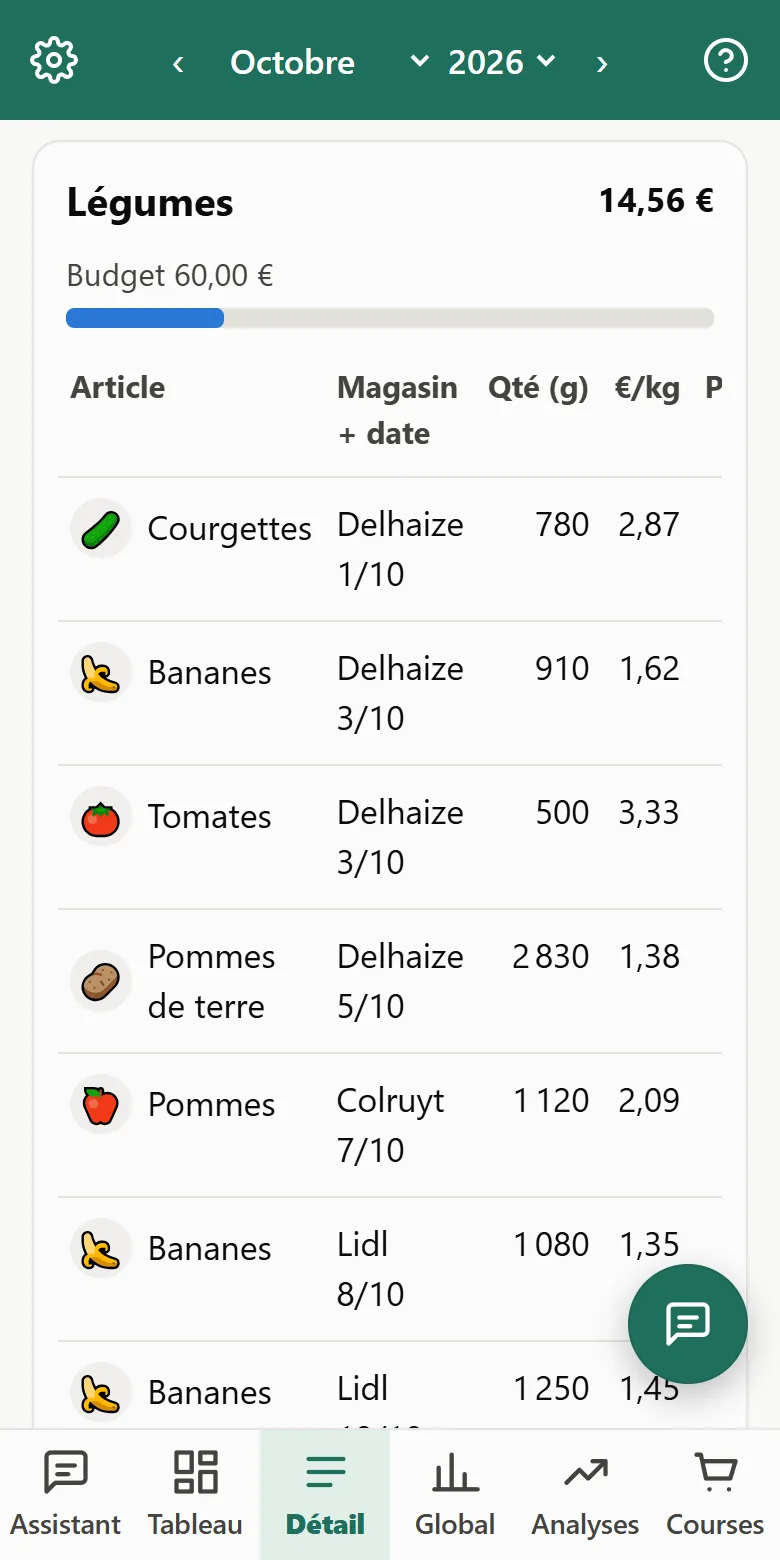
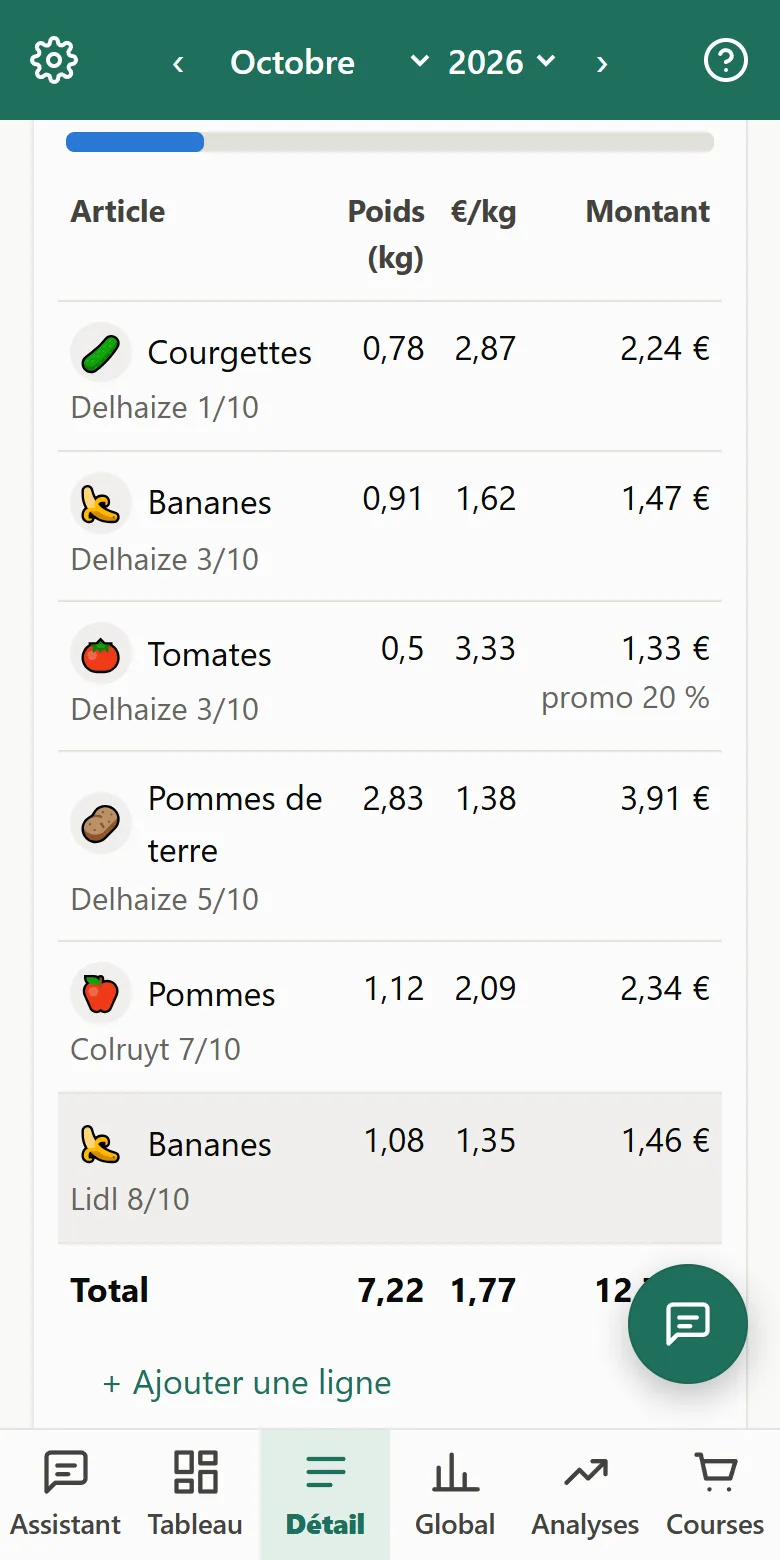
Demandes de Papa : dictée plus longue, poids et prix au kilo des légumes, poids lu sur les paquets
- Dictée : les pauses ne coupent plus la phrase ; arrêt après ~4 s de silence,
  au bout d'une minute, ou sur « Envoyer » (relance automatique du micro sur Android)
- Détail : poids (kg) et €/kg pour les légumes, ligne Total avec les kilos achetés
  et les achats sans poids ; magasin et date sous l'article, promo sous le montant,
  le tableau tient dans la largeur du téléphone
- Lecture des tickets : poids d'un fruit ou légume emballé repris du nom
  (« FRAISES 650G ») et prix au kilo calculé ; un volume n'est pas un poids
- Notice à jour

diff --git a/src/lib/voice.ts b/src/lib/voice.ts
@@ -31,19 +31,51 @@ const ERRORS: Record<string, string> = {
 }
 
 /**
- * Dictée : start() écoute, le texte s'affiche au fur et à mesure (interim),
- * puis onFinal reçoit la phrase complète quand l'utilisateur s'arrête de parler.
+ * Dictée : start() écoute, le texte s'affiche au fur et à mesure (interim), puis onFinal reçoit
+ * tout ce qui a été dit. Les pauses ne coupent pas la dictée : elle s'arrête après quelques secondes
+ * de silence, au bout d'une minute, ou quand l'utilisateur touche « Envoyer ».
  */
+const SILENCE_MS = 4000 // silence après avoir parlé
+const SILENCE_BEFORE_MS = 8000 // silence avant d'avoir commencé à parler
+const MAX_MS = 60000 // durée maximale d'une dictée
+
+/** Assemble les morceaux reconnus (Android répète parfois tout le début dans chaque morceau). */
+function joinFinals(parts: string[]): string {
+  let out = ''
+  for (const raw of parts) {
+    const p = raw.trim()
+    if (!p) continue
+    if (out && p.toLowerCase().startsWith(out.toLowerCase())) out = p
+    else if (!out.toLowerCase().endsWith(p.toLowerCase())) out = out ? `${out} ${p}` : p
+  }
+  return out
+}
+
 export function useDictation(onFinal: (text: string) => void) {
   const [listening, setListening] = useState(false)
   const [interim, setInterim] = useState('')
   const [error, setError] = useState<string | null>(null)
   const rec = useRef<Recognition | null>(null)
-  const finalText = useRef('')
   const cb = useRef(onFinal)
   cb.current = onFinal
+  /** État d'une dictée en cours (peut couvrir plusieurs sessions du micro). */
+  const run = useRef<{ committed: string; current: string; startedAt: number; lastSpeech: number; done: boolean; timer: number } | null>(null)
 
-  const stop = useCallback(() => { rec.current?.stop() }, [])
+  const finish = useCallback(() => {
+    const st = run.current
+    if (!st || st.done) return
+    st.done = true
+    window.clearInterval(st.timer)
+    try { rec.current?.stop() } catch { /* déjà arrêté */ }
+    rec.current = null
+    setListening(false)
+    setInterim('')
+    const text = joinFinals([st.committed, st.current])
+    run.current = null
+    if (text) cb.current(text)
+  }, [])
+
+  const stop = useCallback(() => finish(), [finish])
 
   const start = useCallback(() => {
     const Cls = recognitionClass()
@@ -52,33 +84,52 @@ export function useDictation(onFinal: (text: string) => void) {
     unlockAudio()
     setError(null)
     setInterim('')
-    finalText.current = ''
-    const r = new Cls()
-    r.lang = 'fr-BE'
-    r.continuous = false
-    r.interimResults = true
-    r.onresult = (e) => {
-      let live = ''
-      for (let i = e.resultIndex; i < e.results.length; i++) {
-        const res = e.results[i]
-        if (res.isFinal) finalText.current += res[0].transcript
-        else live += res[0].transcript
-      }
-      setInterim((finalText.current + live).trim())
-    }
-    r.onerror = (e) => { if (e.error !== 'aborted') setError(ERRORS[e.error] ?? 'La dictée a été interrompue. Réessayez.') }
-    r.onend = () => {
-      setListening(false)
-      rec.current = null
-      const text = finalText.current.trim()
-      setInterim('')
-      if (text) cb.current(text)
-    }
-    rec.current = r
-    try { r.start(); setListening(true) } catch { setError('La dictée n\'a pas pu démarrer. Réessayez.') }
-  }, [])
+    const now = Date.now()
+    const st = { committed: '', current: '', startedAt: now, lastSpeech: now, done: false, timer: 0 }
+    run.current = st
+    // Arrêt automatique : silence prolongé ou durée maximale
+    st.timer = window.setInterval(() => {
+      const t = Date.now()
+      const spoken = Boolean(joinFinals([st.committed, st.current]))
+      if (t - st.startedAt > MAX_MS || t - st.lastSpeech > (spoken ? SILENCE_MS : SILENCE_BEFORE_MS)) finish()
+    }, 300)
 
-  useEffect(() => () => rec.current?.abort(), [])
+    const session = () => {
+      const r = new Cls()
+      r.lang = 'fr-BE'
+      r.continuous = true
+      r.interimResults = true
+      r.onresult = (e) => {
+        const finals: string[] = []
+        let live = ''
+        for (let i = 0; i < e.results.length; i++) {
+          const res = e.results[i]
+          if (res.isFinal) finals.push(res[0].transcript)
+          else live += res[0].transcript
+        }
+        st.current = joinFinals(finals)
+        st.lastSpeech = Date.now()
+        setInterim(joinFinals([st.committed, st.current, live]))
+      }
+      r.onerror = (e) => {
+        if (e.error === 'no-speech' || e.error === 'aborted') return // le minuteur de silence décide
+        setError(ERRORS[e.error] ?? 'La dictée a été interrompue. Réessayez.')
+        finish()
+      }
+      // Le téléphone coupe parfois le micro de lui-même : on relance tant que la dictée n'est pas finie
+      r.onend = () => {
+        if (st.done) return
+        st.committed = joinFinals([st.committed, st.current])
+        st.current = ''
+        try { session() } catch { finish() }
+      }
+      rec.current = r
+      r.start()
+    }
+    try { session(); setListening(true) } catch { setError("La dictée n'a pas pu démarrer. Réessayez."); finish() }
+  }, [finish])
+
+  useEffect(() => () => { if (run.current) { run.current.done = true; window.clearInterval(run.current.timer) } rec.current?.abort() }, [])
   return { listening, interim, error, start, stop, clearError: () => setError(null) }
 }
 

diff --git a/src/pages/Detail.tsx b/src/pages/Detail.tsx
@@ -57,6 +57,11 @@ export default function Detail() {
         const rows = byCategory.get(c.id) ?? []
         const sub = rows.reduce((a, p) => a + Number(p.amount), 0)
         const status = budgetStatus(sub, c.monthly_budget)
+        // Légumes : poids en kg et prix au kilo (donné, sinon calculé), total des kilos
+        const kgOf = (p: Purchase) => (p.quantity_g ? Number(p.quantity_g) / 1000 : null)
+        const ppkOf = (p: Purchase) => (p.price_per_kg != null ? Number(p.price_per_kg) : kgOf(p) ? Number(p.amount) / kgOf(p)! : null)
+        const weighedRows = rows.filter((p) => kgOf(p))
+        const totalKg = weighedRows.reduce((a, p) => a + kgOf(p)!, 0)
         return (
           <section key={c.id} className="card">
             <div className="spread">
@@ -75,25 +80,32 @@ export default function Detail() {
                   <thead>
                     <tr>
                       <th>Article</th>
-                      <th>Magasin + date</th>
-                      {c.weighed && <><th className="num">Qté (g)</th><th className="num">€/kg</th></>}
+                      {c.weighed && <><th className="num">Poids<br />(kg)</th><th className="num">€/kg</th></>}
                       {c.counted && <th className="num">Nbre</th>}
-                      <th className="num">Promo</th>
                       <th className="num">Montant</th>
                     </tr>
                   </thead>
                   <tbody>
                     {rows.map((p) => (
                       <tr key={p.id} className="clickable" onClick={() => setEditing(p)}>
-                        <td><span className="pname"><ProductIcon name={itemById(p.item_id)?.name ?? ''} category={c.name} icon={itemById(p.item_id)?.icon} />{itemById(p.item_id)?.name}</span>{!c.counted && p.units && Number(p.units) > 1 ? <span className="muted"> ×{num(p.units)}</span> : null}{p.note && <div className="muted small">{p.note}</div>}</td>
-                        <td>{storeDate(storeById(p.store_id)?.name, p.purchased_on)}</td>
-                        {c.weighed && <><td className="num">{num(p.quantity_g)}</td><td className="num">{num(p.price_per_kg)}</td></>}
+                        <td><span className="pname"><ProductIcon name={itemById(p.item_id)?.name ?? ''} category={c.name} icon={itemById(p.item_id)?.icon} />{itemById(p.item_id)?.name}</span>{!c.counted && p.units && Number(p.units) > 1 ? <span className="muted"> ×{num(p.units)}</span> : null}<div className="muted small">{storeDate(storeById(p.store_id)?.name, p.purchased_on)}{p.note ? ` · ${p.note}` : ''}</div></td>
+                        {c.weighed && <>
+                          <td className="num">{kgOf(p) ? num(Math.round(kgOf(p)! * 1000) / 1000) : <span className="muted">—</span>}</td>
+                          <td className="num">{ppkOf(p) != null ? num(Math.round(ppkOf(p)! * 100) / 100) : <span className="muted">—</span>}</td>
+                        </>}
                         {c.counted && <td className="num">{num(p.units ?? 1)}</td>}
-                        <td className="num">{p.promo_pct ? `${num(p.promo_pct)} %` : ''}</td>
-                        <td className="num">{eur(p.amount)}</td>
+                        <td className="num">{eur(p.amount)}{p.promo_pct ? <div className="muted small">promo {num(p.promo_pct)} %</div> : null}</td>
                       </tr>
                     ))}
                   </tbody>
+                  <tfoot>
+                    <tr>
+                      <td>Total{c.weighed && rows.length > weighedRows.length ? <div className="muted small">{rows.length - weighedRows.length} achat{rows.length - weighedRows.length > 1 ? 's' : ''} sans poids</div> : null}</td>
+                      {c.weighed && <><td className="num">{weighedRows.length ? num(Math.round(totalKg * 1000) / 1000) : '—'}</td><td className="num">{totalKg ? num(Math.round((weighedRows.reduce((a, p) => a + Number(p.amount), 0) / totalKg) * 100) / 100) : ''}</td></>}
+                      {c.counted && <td className="num">{num(rows.reduce((a, p) => a + Number(p.units ?? 1), 0))}</td>}
+                      <td className="num">{eur(sub)}</td>
+                    </tr>
+                  </tfoot>
                 </table>
               </div>
             )}

diff --git a/public/notice.html b/public/notice.html
@@ -249,7 +249,7 @@
       <div class="step duo">
         <div>
           <h3>🎤 Parler à l'assistant</h3>
-          <p>Touchez <span class="ui">🎤 Parler</span> et dites ce que vous voulez, naturellement : <em>« J'ai payé 12,50 € chez le boucher aujourd'hui »</em>, <em>« le plein d'essence, 58 € chez Shell »</em>, <em>« combien ai-je dépensé ce mois-ci ? »</em>. Quand vous vous arrêtez de parler, la phrase part toute seule (ou touchez <span class="ui">⏹ Envoyer</span>).</p>
+          <p>Touchez <span class="ui">🎤 Parler</span> et dites ce que vous voulez, naturellement : <em>« J'ai payé 12,50 € chez le boucher aujourd'hui »</em>, <em>« le plein d'essence, 58 € chez Shell »</em>, <em>« combien ai-je dépensé ce mois-ci ? »</em>. Vous pouvez faire des pauses pour réfléchir : la dictée continue. Elle part toute seule après environ 4 secondes de silence, au bout d'une minute au plus, ou quand vous touchez <span class="ui">⏹ Envoyer</span>.</p>
           <p><strong>Pour une dépense dictée, l'assistant montre toujours un résumé</strong> de ce qu'il a compris (quoi, combien, quand, où, quel mois) et demande <em>« Je l'enregistre ? »</em>. Touchez <span class="ui">✓ Oui, j'enregistre</span> ou <span class="ui">✗ Non</span>, ou répondez « oui » à voix haute. Rien n'est enregistré sans votre accord.</p>
           <p><strong>Il vous répond à voix haute</strong> quand vous lui avez parlé. Sous chaque réponse, <span class="ui">🔊 Écouter</span> la relit.</p>
           <p>Il peut aussi <strong>corriger</strong> (« le croissant coûtait 1,20 € ») ou <strong>supprimer</strong> (« supprime ce que je viens d'encoder ») : il montre d'abord ce qu'il va faire. Et « annule » défait sa dernière action.</p>
@@ -447,6 +447,7 @@
         <div>
           <h3>Le détail du mois</h3>
           <p>Touchez <span class="ui">Détail</span> en bas. Chaque catégorie a son tableau, avec son total et son budget. Comme dans l'Excel, la colonne <strong>« Magasin + date »</strong> indique par exemple « Lidl 9/10 ».</p>
+          <p>Pour les <strong>légumes et fruits</strong>, deux colonnes donnent le <strong>poids (kg)</strong> et le <strong>prix au kilo</strong> de chaque achat, et la ligne <strong>Total</strong> additionne les kilos achetés dans le mois. Le poids est relevé sur les tickets : pesée (« 0,798 kg x 2,05 €/kg ») ou poids du paquet (« FRAISES 650G »). Un achat sans poids est signalé sous le total ; dites-le à l'assistant (« les prunes pesaient 750 g ») pour le compléter.</p>
           <h3>Modifier ou supprimer une ligne</h3>
           <p><strong>Touchez la ligne</strong> : elle s'ouvre. Corrigez puis <span class="ui">Enregistrer les modifications</span>, ou <span class="ui">Supprimer</span>.</p>
           <h3>Ajouter une ligne oubliée</h3>

diff --git a/supabase/functions/comptes-ticket/index.ts b/supabase/functions/comptes-ticket/index.ts
@@ -26,7 +26,8 @@ const INSTRUCTIONS = `Tu lis la photo d'un ticket de caisse belge (Delhaize, Lid
 Règles de lecture :
 - Une ligne par article acheté. Ignore les lignes de total, sous-total, TVA, mode de paiement, rendu, points de fidélité, numéros de caisse.
 - « montant » est ce qui a été réellement payé pour la ligne, réductions déduites. Une ligne de réduction (« Réduction », « Promo », « Lidl Plus », « -0,50 », « 2e à -50 % »…) se déduit de l'article qu'elle concerne (en général celui juste au-dessus) : mets le montant de la remise dans « remise » et n'en fais pas une ligne à part.
-- Articles pesés (« 0,812 kg x 1,99 €/kg ») : poids_g = 812, prix_kg = 1.99. Articles multiples (« 2 x 1,49 ») : nombre = 2 et montant = le total de la ligne.
+- Articles pesés (« 0,812 kg x 1,99 €/kg ») : poids_g = 812, prix_kg = 1.99.
+- Fruits et légumes emballés (catégorie pesée) dont le poids figure dans le nom (« FRAISES 650G », « HARICOTS 1KG », « POMMES 1,5 KG », « TOMATES 500 G ») : poids_g = ce poids multiplié par le nombre d'unités (650, 1000, 1500…), et prix_kg = montant ÷ (poids_g / 1000), arrondi au centime. Un volume (« 212 ML », « 1 L ») n'est pas un poids : laisse poids_g et prix_kg à null. Articles multiples (« 2 x 1,49 ») : nombre = 2 et montant = le total de la ligne.
 - Consignes de bouteilles et sacs : catégorie Divers, article « Consigne » ou « Sac ».
 - « article » : un nom court et générique en français, comme une personne l'écrirait (« Yaourt nature », pas « DANONE NAT 4X125G »). Si un article de la liste fournie correspond au même produit, reprends EXACTEMENT son nom.
 - « categorie » : une des catégories fournies. Fruits et légumes frais → la catégorie pesée (Légumes).
